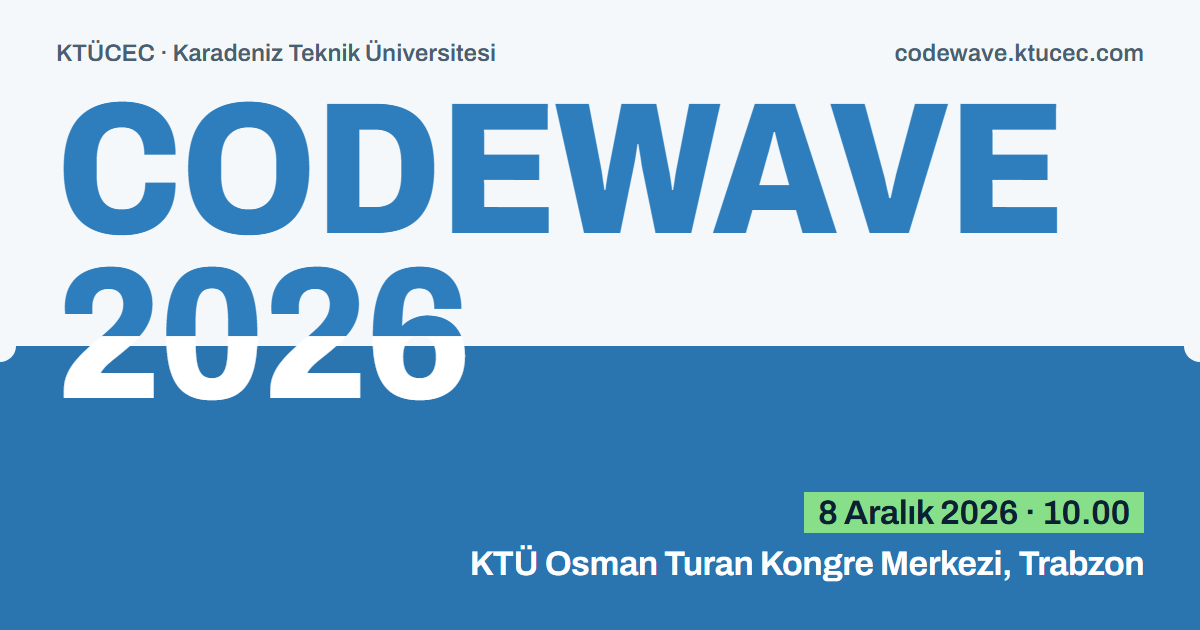
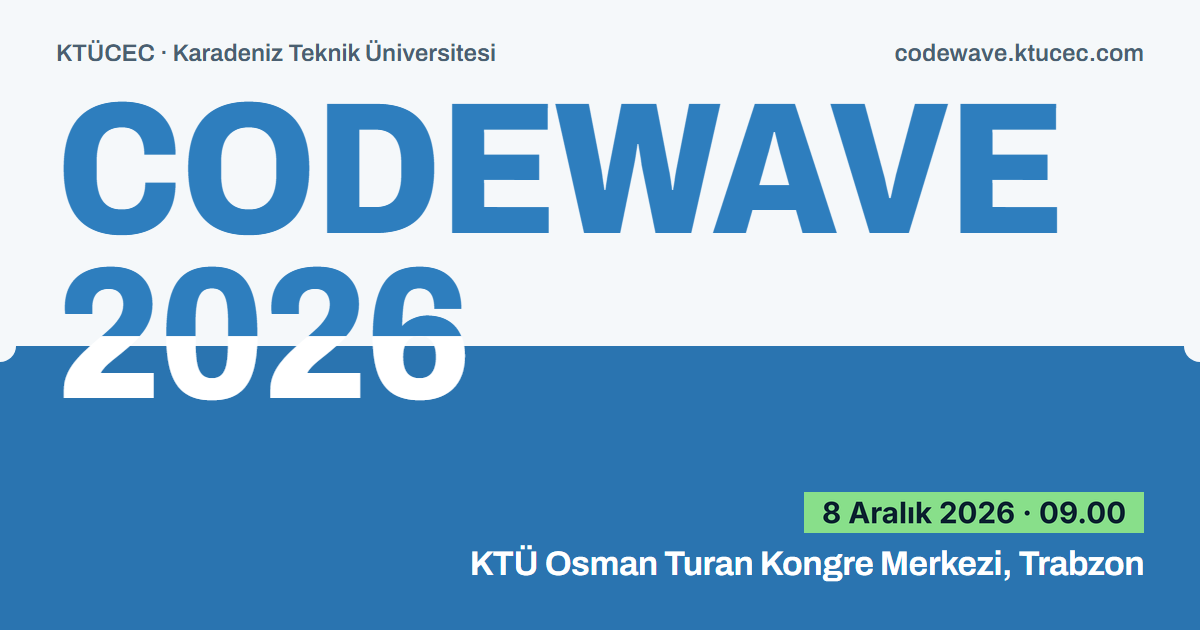
feat(codewave): add image, hidden listing and configurable text to shopier product

Changed region(s): [[0.6783, 0.7841, 0.9558, 0.8444]]

diff --git a/backend/Infrastructure/Services/Shopier/ShopierApiClient.cs b/backend/Infrastructure/Services/Shopier/ShopierApiClient.cs
@@ -9,7 +9,9 @@ public record ShopierProduct(string Id, string? Url, int? StockQuantity);
 
 // Shopier REST API v1 (https://api.shopier.com/v1), "Kişisel Erişim Anahtarı" (PAT) ile.
 // Anahtar Shopier panelinde Hesap Yönetimi > Kişisel Erişim Anahtarı'ndan alınır (iki adımlı doğrulama gerekir)
-// ve appsettings'te Shopier:PersonalAccessToken olarak durur. Gereken izin: ürün okuma/yazma.
+// ve appsettings'te Shopier:PersonalAccessToken olarak durur (PAT'te kapsam seçimi yoktur; hesaba tam erişim sağlar).
+// Ürün ayarları appsettings'ten gelir: Shopier:ProductImageUrl (herkese açık jpg/jpeg/png/bmp adresi, zorunlu),
+// Shopier:ProductDescription, Shopier:HideProductFromShop (true ise ürün dükkanda listelenmez, yalnızca bağlantıyla açılır).
 public class ShopierApiClient
 {
     private const string BaseUrl = "https://api.shopier.com/v1/";
@@ -32,21 +34,37 @@ public class ShopierApiClient
     public bool IsConfigured => Token is not null;
 
     // Dijital, kargosuz, tek stoklu bir ürün açar. Başarısızlıkta null döner (ayrıntı loglanır).
-    public async Task<ShopierProduct?> CreateDigitalProductAsync(string title, string description, decimal price, string currency, int stockQuantity, CancellationToken ct = default)
+    public async Task<ShopierProduct?> CreateDigitalProductAsync(string title, decimal price, string currency, int stockQuantity, CancellationToken ct = default)
     {
+        // Shopier ürün için en az bir görsel ister (media zorunlu, en fazla 5; herkese açık URL).
+        var imageUrl = _configuration["Shopier:ProductImageUrl"]?.Trim();
+        if (string.IsNullOrEmpty(imageUrl))
+        {
+            _logger.LogError("Shopier:ProductImageUrl ayarı boş; Shopier ürünü için görsel gerekli.");
+            return null;
+        }
+
+        var description = _configuration["Shopier:ProductDescription"]?.Trim();
+        if (string.IsNullOrEmpty(description))
+            description = "KTÜCEC CODEWAVE 2026 öğrenci bileti.";
+
+        // Varsayılan: gizli. Ürün dükkanda listelenmez, yalnızca bağlantıyı bilen görür.
+        var hide = !bool.TryParse(_configuration["Shopier:HideProductFromShop"], out var h) || h;
+
         var body = new
         {
             title,
             description,
             type = "digital",
-            media = Array.Empty<object>(),
+            media = new[] { new { type = "image", url = imageUrl, placement = 1 } },
             priceData = new
             {
                 currency,
                 price = price.ToString("0.00", CultureInfo.InvariantCulture)
             },
             stockQuantity,
-            shippingPayer = "sellerPays"
+            shippingPayer = "sellerPays",
+            customListing = hide
         };
 
         using var request = CreateRequest(HttpMethod.Post, "products");

diff --git a/backend/Features/Codewave/CreateCodewaveApplication.cs b/backend/Features/Codewave/CreateCodewaveApplication.cs
@@ -171,7 +171,6 @@ public class CreateCodewaveApplicationHandler
         var code = _security.GenerateProductCode();
         var created = await _shopier.CreateDigitalProductAsync(
             title: $"CODEWAVE 2026 Öğrenci Bileti {code}",
-            description: "KTÜCEC CODEWAVE 2026 · 8 Aralık 2026, Trabzon · edu.tr e-postası doğrulanmış öğrenciye özel, tek kişilik indirimli bilet. Bu ürün yalnızca bir kez satın alınabilir.",
             price: price,
             currency: currency,
             stockQuantity: 1);
